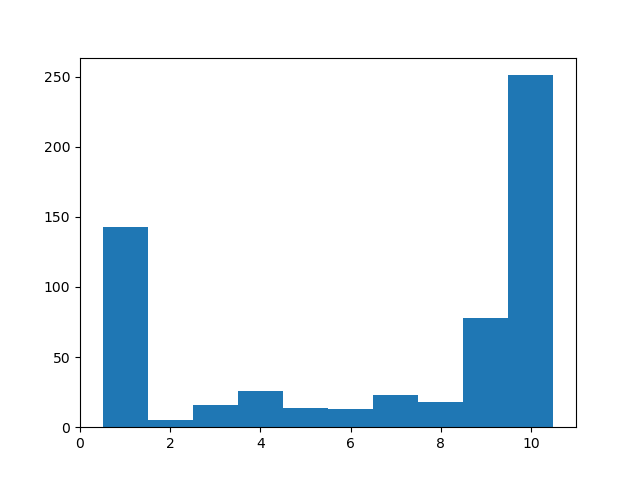
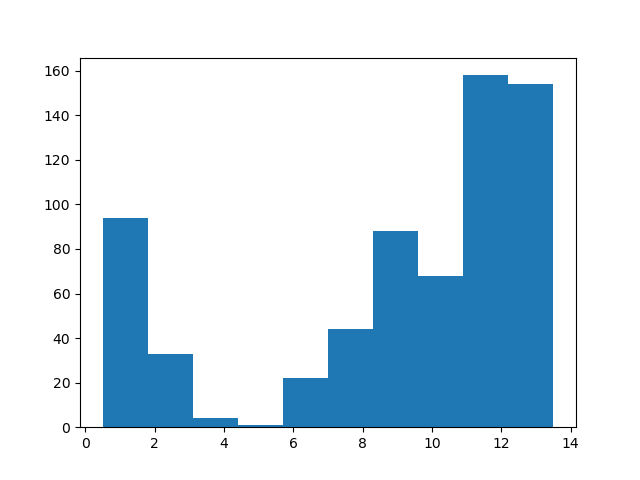
rm numba parallel flag

diff --git a/knot_evol.py b/knot_evol.py
@@ -29,7 +29,7 @@ Currently (06/03/25):
     * Need a way to get extremely entangled configurations
 '''
 
-@njit(parallel=True)
+@njit()
 def neighbours(array, point):
     '''
     Takes in array and specified point, outputs an array of neighbours of point and associated neighbour value.
@@ -53,7 +53,7 @@ def neighbours(array, point):
 
     return neighbour
 
-@njit(parallel=True)
+@njit()
 def restricted_neighbours(array, point):
     '''
     Takes in array and point in array and outputs an array of neighbours and neighbour value.
@@ -140,7 +140,7 @@ def orient(array):
     return oriented_structure
 
 
-@njit(parallel=True)
+@njit()
 def find_new(array, edge):
     '''
     Find valid locations to move edge, nb. needs to be restricted neighbours
@@ -158,7 +158,7 @@ def find_new(array, edge):
 
     return valid_neighbours[new_edge]
 
-@njit(parallel=True)
+@njit()
 def check_double_edge(array):
     '''
     Checks for singular points.
@@ -171,7 +171,7 @@ def check_double_edge(array):
 
     return array
 
-@njit(parallel=True)
+@njit()
 def check_verticies(array):
     '''
     Checks the verticies of the 3D state space.
@@ -192,7 +192,7 @@ def check_verticies(array):
 
     return status
 
-@njit(parallel = True)
+@njit()
 def crumple(array):
     '''
     Markov Chain method to enforce movement toward more crumpled structure.
@@ -216,7 +216,7 @@ def shear(array):
     return array
 
 
-@njit(parallel=True)
+@njit()
 def lattice_writhe(array):
     '''
     Want to explore Tait numbers T(A_{i}) on the two areas (8 areas modulo symmetry) on the indicatrix corresponding to projections on: 
@@ -360,7 +360,7 @@ def lattice_writhe(array):
     return (TA_1 + TA_2)/ 4
 
 
-@njit(parallel = True)
+@njit()
 def metropolis_acceptance(old, new, temperature):
     '''
     Probability to randomly accept update moves that arent crossing increasing.
